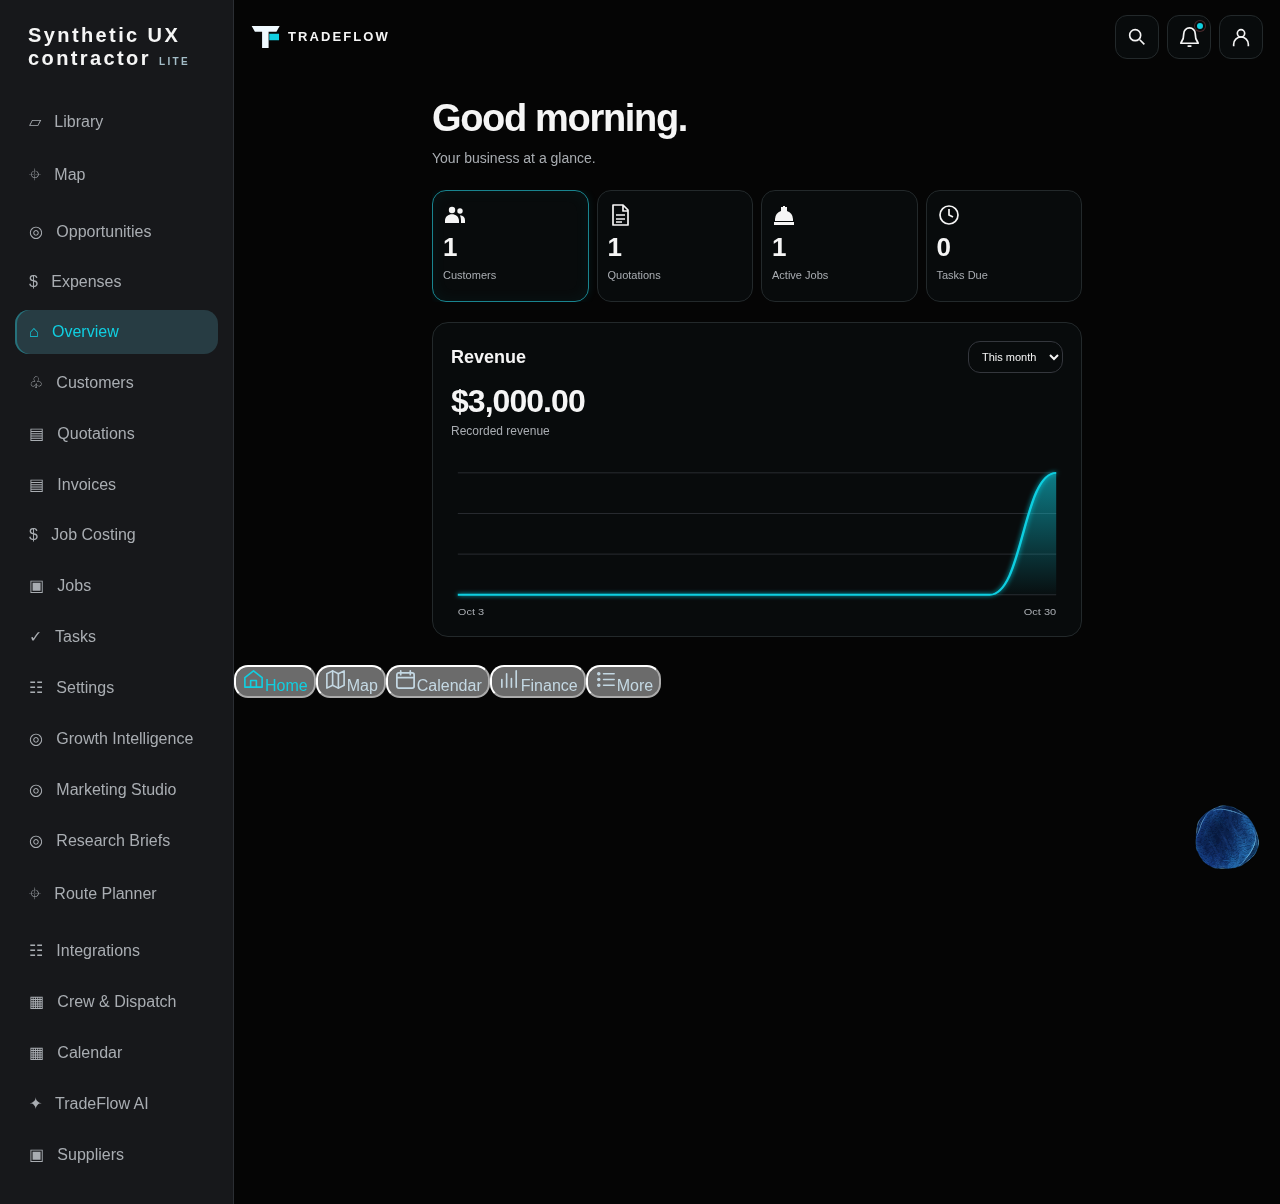
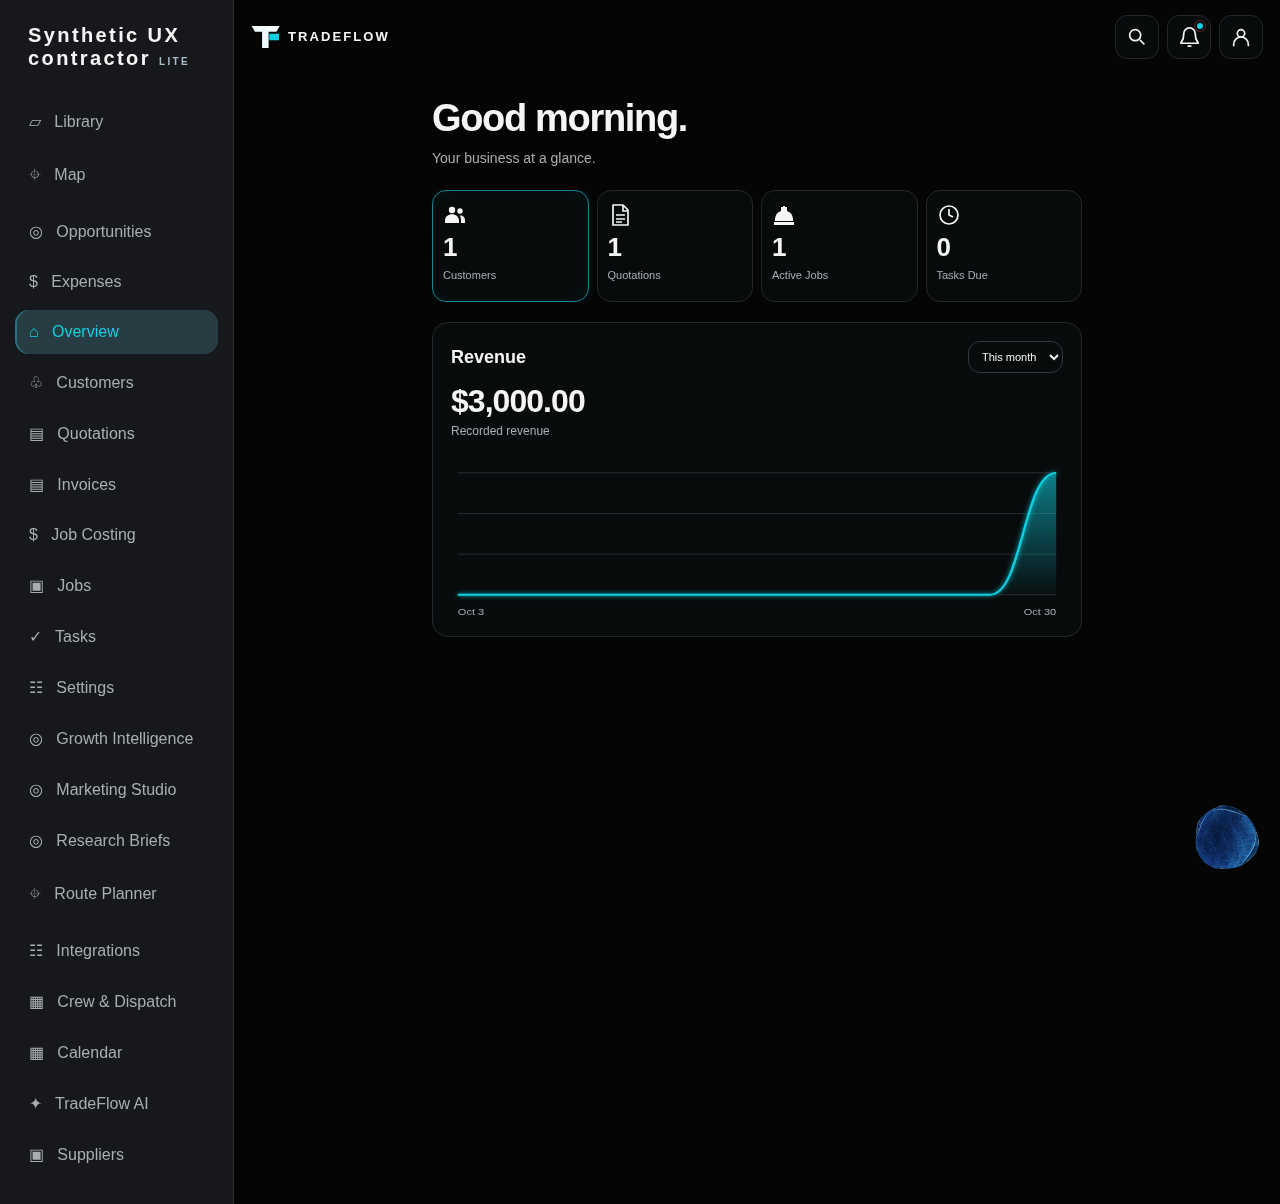
fix(gui): keep the floating dock mobile-only and refresh visual evidence

Changed region(s): [[0.1875, 0.5532, 0.5312, 0.5839]]

diff --git a/public/fluid-navigation.css b/public/fluid-navigation.css
@@ -11,3 +11,5 @@ body .mobilebar.tf-fluid-nav button.active .navicon{filter:drop-shadow(0 0 5px c
 body .mobilebar.tf-fluid-nav button:focus-visible{outline:2px solid var(--tf-focus);outline-offset:-3px}
 }
 @media(prefers-reduced-motion:reduce){.tf-fluid-capsule{will-change:auto}}
+/* The existing desktop sidebar remains the sole desktop navigation surface. */
+@media(min-width:851px){body .mobilebar.tf-fluid-nav{display:none}}

diff --git a/docs/TRADEFLOW_ENGINEERING_TASK_LEDGER.md b/docs/TRADEFLOW_ENGINEERING_TASK_LEDGER.md
@@ -613,3 +613,7 @@ No merge/deploy, no preview marker/workflow activation. AI-base integration conf
 Retained footer tests exposed two genuine cascade defects: universal reduced-motion duration overrode the capsule's exact zero-duration contract, and transitioning the dock width during mount left stale geometry after Home→More. Excluded the enhanced dock/capsule from the legacy duration rule using zero-specificity :where and made dock geometry immediate; physics still owns the capsule. Strict four-case pointer/settling/cancel/keyboard/reduced-motion/200%-text-and-page-zoom/offline/rollback journeys now pass. No alignment assertion or timeout was relaxed. The extended header test now waits for the actual Customers destination rather than assuming an asynchronous route is synchronous.
 
 The empty Revenue curve's SVG glow used its zero-height object bounding box and could disappear. Specified an explicit user-space filter region without changing series, values, dates or financial calculations; the flat zero curve is now visible in the actual empty screenshot. Final Home5 journeys pass with both populated and empty fixtures. Prior full browser stages passed through host4; final footer/Home recovery passes are recorded separately, and exact-head CI will replay the complete suite. No deployed verification claim.
+
+### Final desktop visual review
+
+Inspection of every captured width exposed a desktop-only duplicate mobile-button row: legacy footer exclusions also bypassed its original desktop hiding rule. The enhanced dock now explicitly hides above850px, preserving the existing sidebar as the sole desktop navigation. A real desktop visibility assertion was added; five Home journeys passed again, and mobile/desktop evidence was recaptured. This was an actual rendered defect corrected before declaring completion, not a relaxed test. Exact final-head CI remains required; no merge/deploy.
